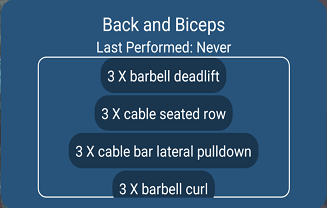
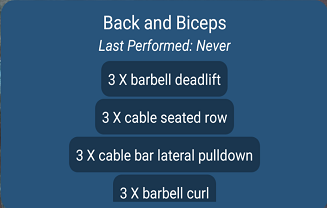
updated widget styling

diff --git a/components/TestWidget.js b/components/TestWidget.js
@@ -78,7 +78,7 @@ const TestWidget = ({ template }) => {
   function TempName() {
     return (
       <TextWidget
-        text={tempName}
+        text={tempName.length<=36? tempName : `${tempName.slice(0,33)}...`}
         style={{
           fontSize: 20,
           fontFamily: 'Inter',
@@ -99,6 +99,8 @@ const TestWidget = ({ template }) => {
           fontSize: 16,
           fontFamily: 'Inter',
           color: '#FFFFFF',
+          marginBottom:5,
+          fontStyle: 'italic'
         }}
       />
     )
@@ -109,11 +111,11 @@ const TestWidget = ({ template }) => {
       <ListWidget
         style={{
           height: 150,
-          width: 300,
+          width: 380,
           overflow: 'auto',
           borderColor: '#FFFFFF',
           borderStyle: 'solid',
-          borderWidth: 1,
+          borderWidth: 0,
           borderRadius: 10,
           padding: 5
         }}>
@@ -124,18 +126,18 @@ const TestWidget = ({ template }) => {
                 key={i}
                 style={{
                   height: 40,
-                  width: 285,
+                  width: 370,
                   justifyContent: 'center',
                   alignItems: 'center',
                 }}
               >
                 <TextWidget
-                  text={`${exer.sets} X ${exer.name}`}
+                  text={`${exer.sets} X ${exer.name.length<=36? exer.name : `${exer.name.slice(0,33)}...`}`}
                   style={{
                     fontSize: 16,
                     fontFamily: 'Inter',
                     color: '#FFFFFF',
-                    borderRadius: 16,
+                    borderRadius: 10,
                     backgroundColor: '#1a364f',
                     padding: 8,
                   }}

diff --git a/screens/ShowTemp.js b/screens/ShowTemp.js
@@ -182,7 +182,7 @@ const ShowTemp = () => {
             return res;
         }
 
-        dispatch(updateLoading(true));
+        //dispatch(updateLoading(true));
         // updates widget and user Data 
         let updatedTempIDArr = WidgetManager.updateWidget(stateSelector.userData.tempIDArr, currentTemp); 
         SecureSt.getVal('uid').then(uid=> {
@@ -191,10 +191,10 @@ const ShowTemp = () => {
                     let data = res.data;
                     if(data.success) {
                         dispatch(updateUserData(data.data));
-                        dispatch(updateLoading(false));
+                        //dispatch(updateLoading(false));
                     }
                     else {
-                        dispatch(updateLoading(false))
+                        //dispatch(updateLoading(false))
                         Alert.alert(`Error`, `${data.err}`)
                     }
                 })
